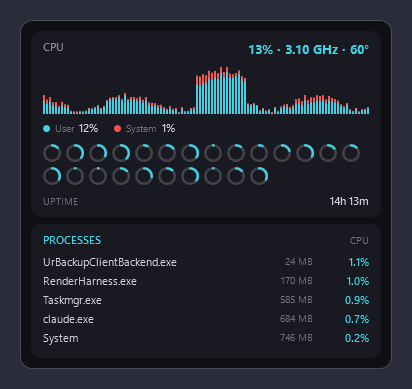
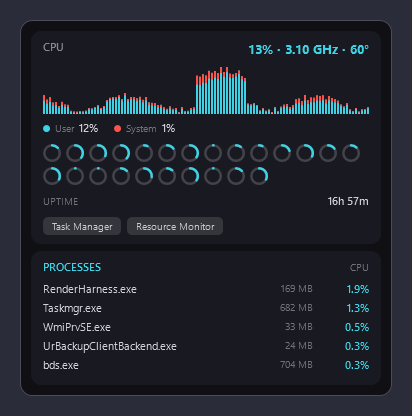
feat(panel): quick-action buttons open the matching Windows tools
Every card ends with iStat-style footer pills: Task Manager and Resource Monitor (CPU, Memory), Display Settings (GPU), Network Settings and Connections (Network), Disk Management and Storage Settings (Disks). Launched via ShellExecute; clicking one naturally hands focus to the tool, which dismisses the panel. README preview images refreshed to show the footers.

diff --git a/StatsPanelWindow.xaml b/StatsPanelWindow.xaml
@@ -85,6 +85,31 @@
             <Setter Property="FontWeight" Value="SemiBold" />
             <Setter Property="Foreground" Value="#F2FFFFFF" />
         </Style>
+
+        <!-- Footer quick-action pill, the iStat "open the system tool" buttons. -->
+        <Style x:Key="QuickButton" TargetType="Button">
+            <Setter Property="Foreground" Value="#CFEDEDF2" />
+            <Setter Property="FontSize" Value="9.5" />
+            <Setter Property="Cursor" Value="Hand" />
+            <Setter Property="Margin" Value="0,0,6,0" />
+            <Setter Property="Template">
+                <Setter.Value>
+                    <ControlTemplate TargetType="Button">
+                        <Border x:Name="Bg" Background="#1FFFFFFF" CornerRadius="5" Padding="9,3">
+                            <ContentPresenter VerticalAlignment="Center" />
+                        </Border>
+                        <ControlTemplate.Triggers>
+                            <Trigger Property="IsMouseOver" Value="True">
+                                <Setter TargetName="Bg" Property="Background" Value="#33FFFFFF" />
+                            </Trigger>
+                            <Trigger Property="IsPressed" Value="True">
+                                <Setter TargetName="Bg" Property="Background" Value="#473FD2E4" />
+                            </Trigger>
+                        </ControlTemplate.Triggers>
+                    </ControlTemplate>
+                </Setter.Value>
+            </Setter>
+        </Style>
     </Window.Resources>
 
     <Border Background="#F70E0E13" BorderBrush="#26FFFFFF" BorderThickness="1" CornerRadius="12">
@@ -183,6 +208,11 @@
                             <TextBlock Style="{StaticResource LegendValue}" HorizontalAlignment="Right"
                                        Text="{Binding UptimeText}" />
                         </Grid>
+
+                        <StackPanel Orientation="Horizontal" Margin="0,9,0,0">
+                            <Button Style="{StaticResource QuickButton}" Content="Task Manager" Tag="taskmgr" Click="OnQuickAction" />
+                            <Button Style="{StaticResource QuickButton}" Content="Resource Monitor" Tag="resmon" Click="OnQuickAction" />
+                        </StackPanel>
                     </StackPanel>
                 </Border>
 
@@ -288,6 +318,11 @@
                                 </ItemsControl.ItemTemplate>
                             </ItemsControl>
                         </StackPanel>
+
+                        <StackPanel Orientation="Horizontal" Margin="0,9,0,0">
+                            <Button Style="{StaticResource QuickButton}" Content="Task Manager" Tag="taskmgr" Click="OnQuickAction" />
+                            <Button Style="{StaticResource QuickButton}" Content="Resource Monitor" Tag="resmon" Click="OnQuickAction" />
+                        </StackPanel>
                     </StackPanel>
                 </Border>
 
@@ -358,6 +393,11 @@
                                 </TextBlock.Style>
                             </TextBlock>
                         </Grid>
+
+                        <StackPanel Orientation="Horizontal" Margin="0,9,0,0">
+                            <Button Style="{StaticResource QuickButton}" Content="Task Manager" Tag="taskmgr" Click="OnQuickAction" />
+                            <Button Style="{StaticResource QuickButton}" Content="Display Settings" Tag="ms-settings:display" Click="OnQuickAction" />
+                        </StackPanel>
                     </StackPanel>
                 </Border>
 
@@ -433,6 +473,11 @@
                             <TextBlock Style="{StaticResource LegendValue}" HorizontalAlignment="Right"
                                        Text="{Binding NetTotalsText}" />
                         </Grid>
+
+                        <StackPanel Orientation="Horizontal" Margin="0,9,0,0">
+                            <Button Style="{StaticResource QuickButton}" Content="Network Settings" Tag="ms-settings:network" Click="OnQuickAction" />
+                            <Button Style="{StaticResource QuickButton}" Content="Connections" Tag="ncpa.cpl" Click="OnQuickAction" />
+                        </StackPanel>
                     </StackPanel>
                 </Border>
 
@@ -480,6 +525,11 @@
                                 </DataTemplate>
                             </ItemsControl.ItemTemplate>
                         </ItemsControl>
+
+                        <StackPanel Orientation="Horizontal" Margin="0,9,0,0">
+                            <Button Style="{StaticResource QuickButton}" Content="Disk Management" Tag="diskmgmt.msc" Click="OnQuickAction" />
+                            <Button Style="{StaticResource QuickButton}" Content="Storage Settings" Tag="ms-settings:storagesense" Click="OnQuickAction" />
+                        </StackPanel>
                     </StackPanel>
                 </Border>
 

diff --git a/StatsPanelWindow.xaml.cs b/StatsPanelWindow.xaml.cs
@@ -207,6 +207,22 @@ namespace Kil0bitSystemMonitor
                 SWP_NOSIZE | SWP_NOZORDER | SWP_NOACTIVATE);
         }
 
+        /// <summary>
+        /// Footer quick-action buttons: opens the Windows tool named by the button's Tag
+        /// (taskmgr, resmon, ncpa.cpl, ms-settings: URIs...). ShellExecute resolves all of
+        /// them; a missing tool fails silently rather than taking the panel down.
+        /// </summary>
+        private void OnQuickAction(object sender, RoutedEventArgs e)
+        {
+            if ((sender as FrameworkElement)?.Tag is not string command || command.Length == 0) return;
+            try
+            {
+                System.Diagnostics.Process.Start(
+                    new System.Diagnostics.ProcessStartInfo(command) { UseShellExecute = true });
+            }
+            catch { }
+        }
+
         private void OnPreviewKeyDown(object sender, KeyEventArgs e)
         {
             if (e.Key == Key.Escape)

diff --git a/GUIDE.md b/GUIDE.md
@@ -65,6 +65,10 @@ top processes), Memory, GPU, Network or Disks — then retargets as you slide al
 exactly like iStat Menus. It never steals focus; clicking inside pins it as the full panel. Turn
 this off with **Hover Panels** in **Appearance**.
 
+Every card ends with **quick-action buttons** that open the matching Windows tool — Task Manager
+and Resource Monitor from CPU and Memory, Display Settings from GPU, Network Settings and
+Connections from Network, Disk Management and Storage Settings from Disks.
+
 Press **Esc** or click anywhere else to dismiss it. Process sampling only runs while the panel is
 open, so a closed panel costs nothing.
 
